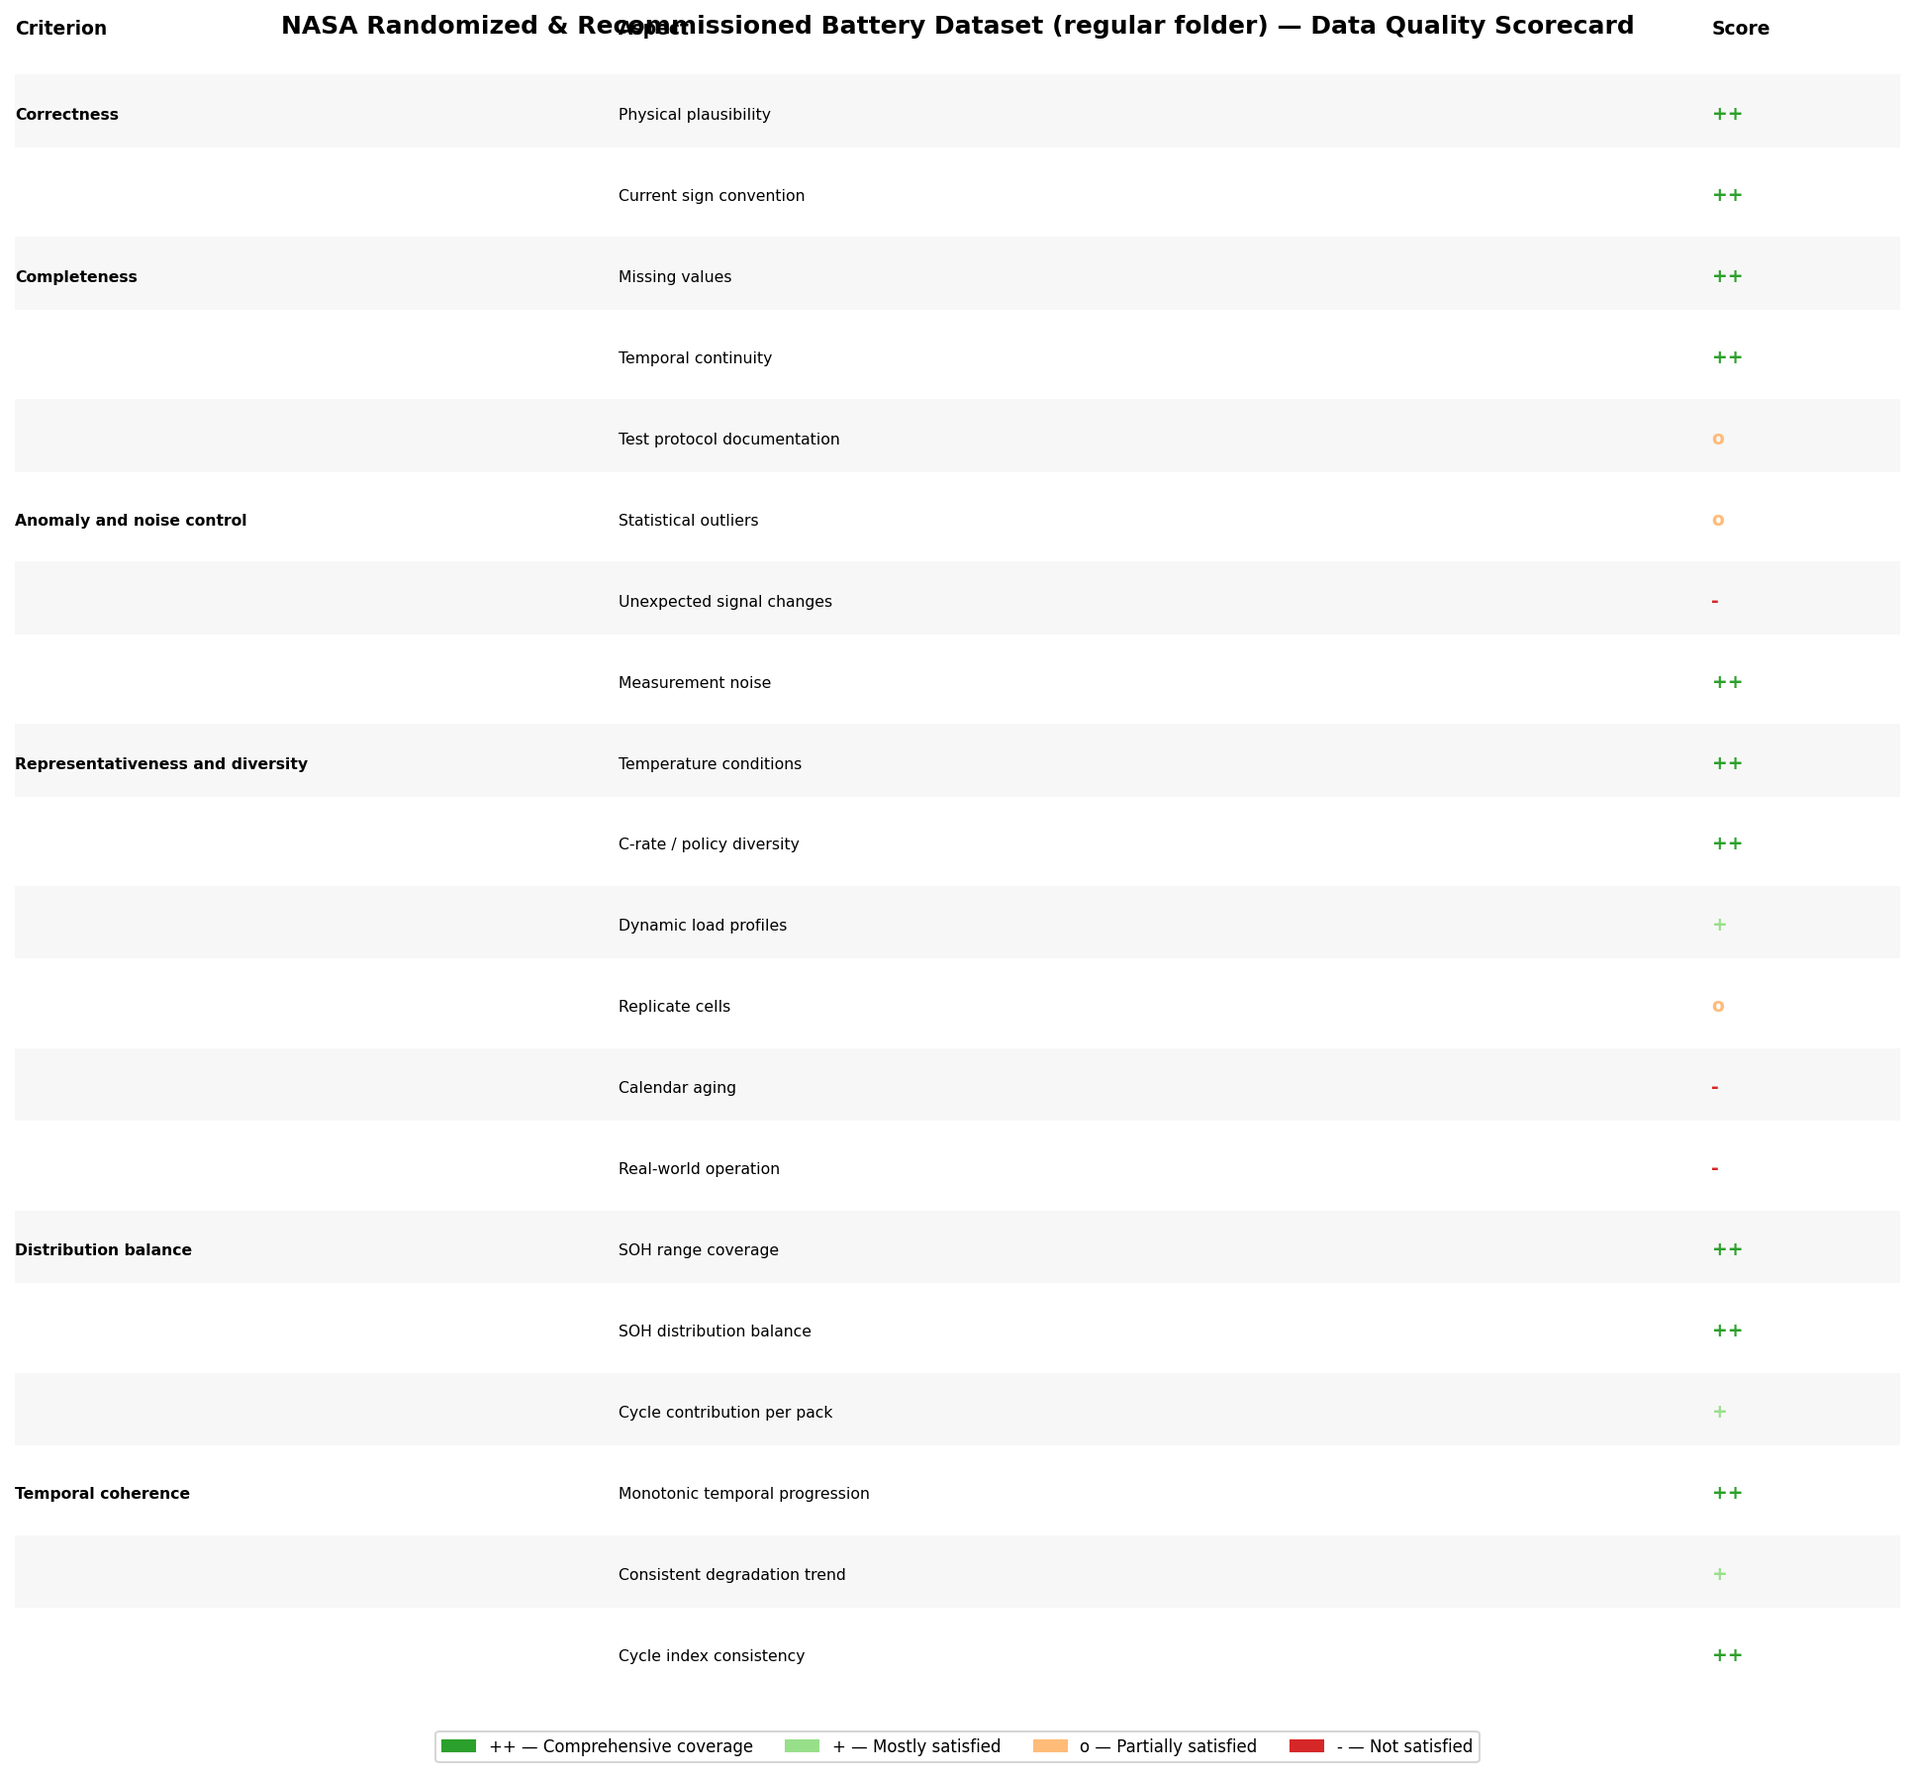
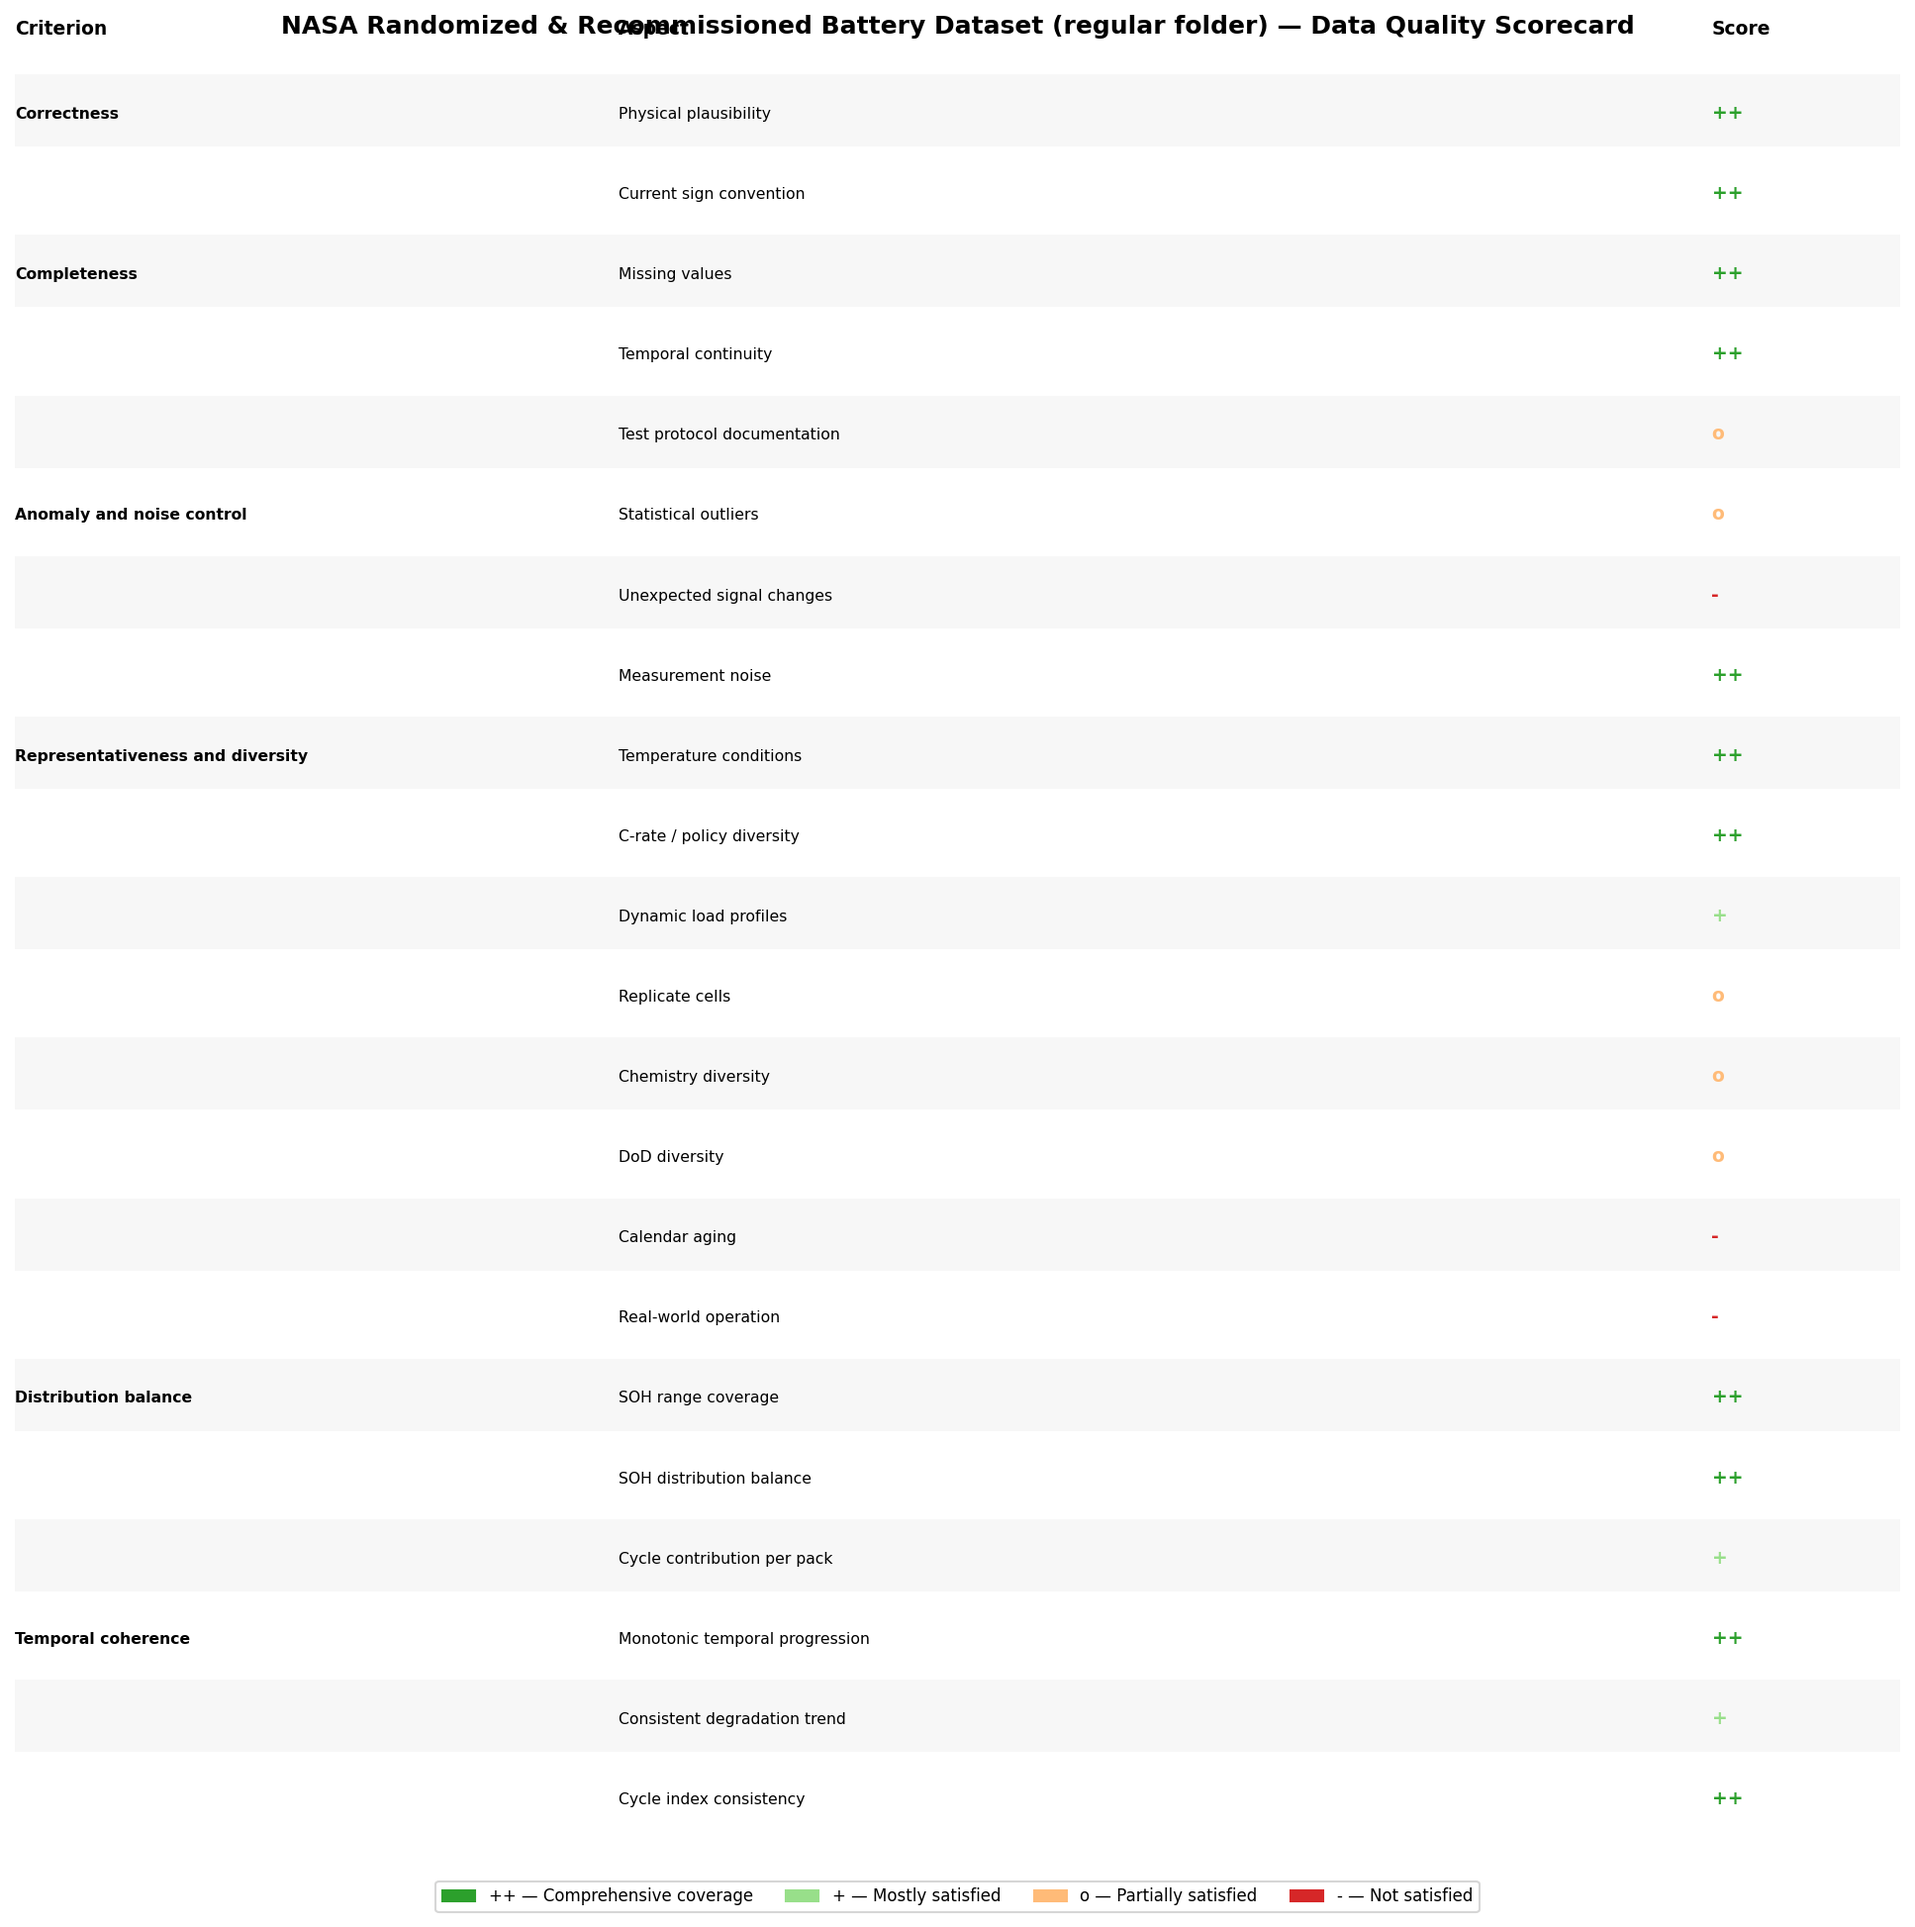
nasa quality adj

diff --git a/04 nasa randomized dataset quality/quality_score.py b/04 nasa randomized dataset quality/quality_score.py
@@ -69,6 +69,21 @@ SCORE_COLORS = {"++": "#2ca02c", "+": "#98df8a", "o": "#ffbb78", "-": "#d62728"}
 # recovered from the CSVs under any amount of analysis)
 # ============================================================================
 METADATA_ONLY = {
+    "Chemistry diversity": {
+        "score": "o",
+        "finding": "1 chemistry across all packs. The general README states only "
+                   "'lithium-ion' and does not specify the chemistry; the companion "
+                   "PHM paper identifies the cell as Samsung INR18650-25R (NCA). "
+                   "Because all 15 packs use the same cell model, chemistry "
+                   "diversity is 1 regardless of which source is used.",
+    },
+    "DoD diversity": {
+        "score": "o",
+        "finding": "1 DoD regime (full-depth cycling between the documented cell "
+                   "cutoffs of 2.5 V and 4.2 V). The README lists no partial-DoD "
+                   "variant in the regular folder; all 15 packs cycle over the "
+                   "same depth.",
+    },
     "Calendar aging": {
         "score": "-",
         "finding": "NASA documentation reports no dedicated calendar-aging "
